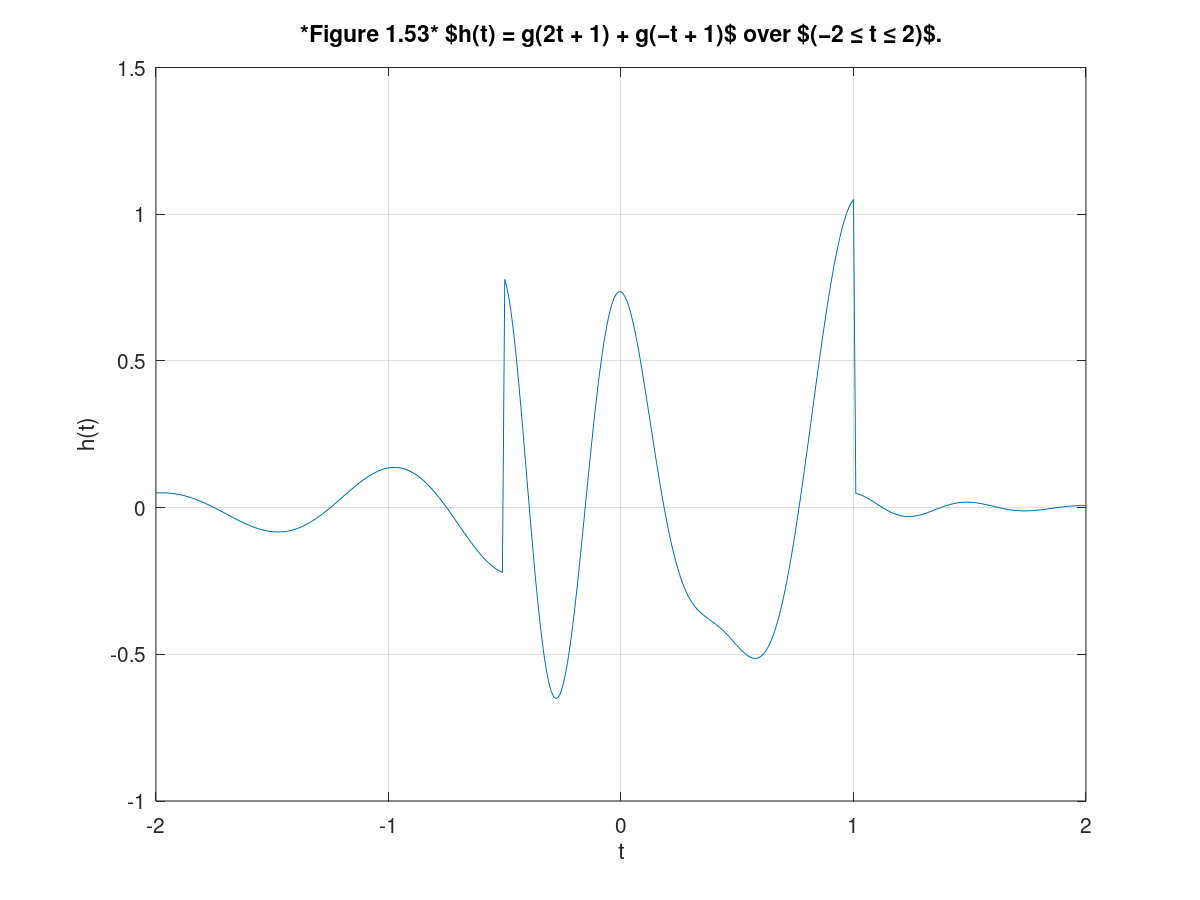
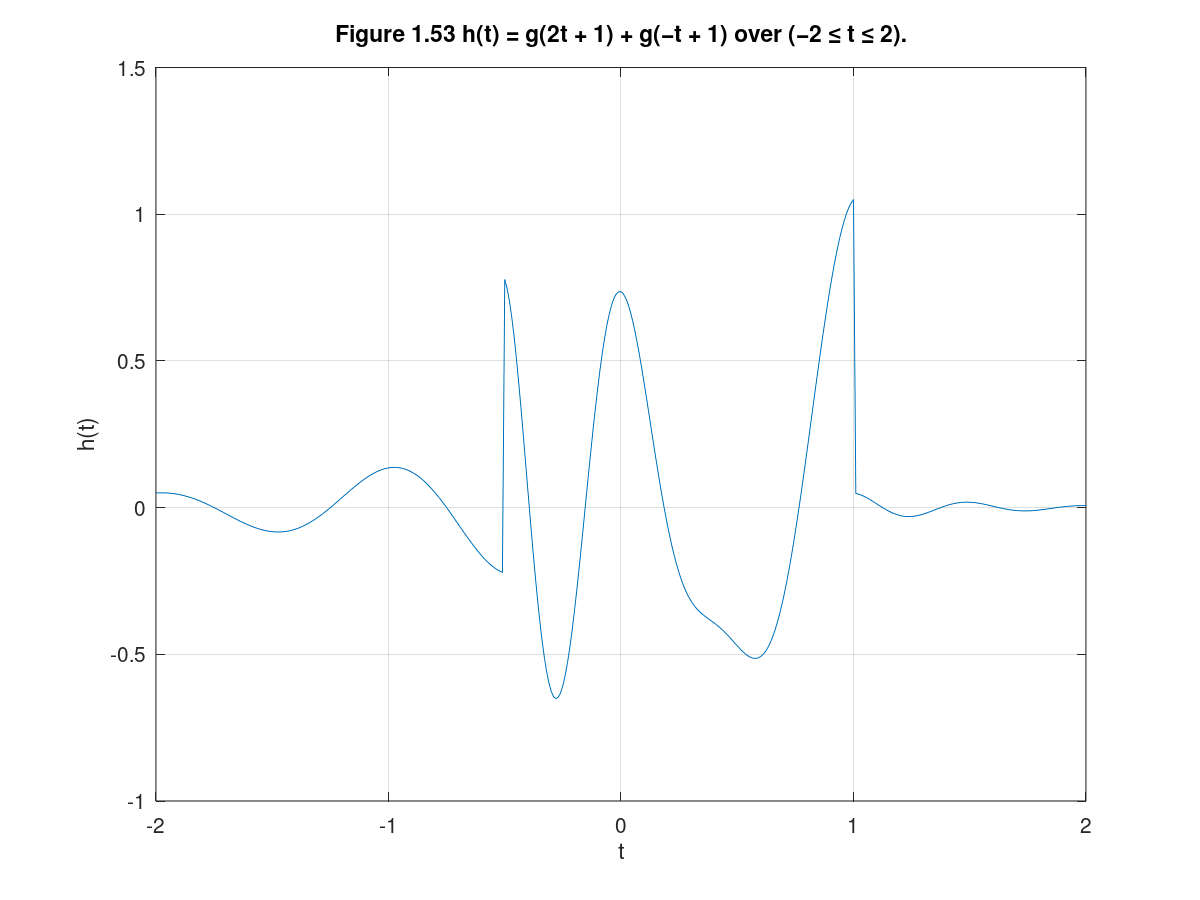
1.11-3 ver 3

Changed region(s): [[0.2467, 0.0311, 0.8017, 0.0622]]

diff --git a/prueba.m b/prueba.m
@@ -74,7 +74,6 @@ plot(t, f(t));
 xlabel('t');
 ylabel('f(t)');
 grid;
-
 %%
 % *Figure 1.46* $f(t) = e^{-t}cos(2\pi t)$ for $t = (-2::2)$.
 
@@ -83,7 +82,6 @@ plot(t1, f(t1));
 xlabel('t');
 ylabel('f(t)');
 grid;
-
 %%
 % *Figure 1.47* $f(t) = e^{-t}cos(2\pi t)$ for $t = (-2:0.01:2)$.
 
@@ -128,9 +126,7 @@ plot(t, u(t));
 xlabel('t');
 ylabel('u(t)');
 axis([-2 2 -0.1 1.1]);
-
-%%
-% *Figure 1.48* $u(t)$ for $t = (-2:0.01:2)$.
+title('Figure 1.48 u(t) for t = (-2:0.01:2)');
 
 %%
 % The four-element vector argument of axis specifies x axis minimum, x axis maximum, y axis
@@ -146,7 +142,7 @@ plot(t, p(t));
 xlabel('t');
 ylabel('p(t) = u(t) - u(t-1)');
 axis([-1 2 -0.1 1.1]);
-title('*Figure 1.50* $p(t) = u(t) − u(t − 1) over (−1 ≤ t ≤ 2)$.');
+title('Figure 1.50 p(t) = u(t) − u(t − 1) over (−1 ≤ t ≤ 2).');
 %%
 % Since anonymous functions can be constructed using other anonymous functions, we could
 % have used our previously defined unit step anonymous function to define p(t) as p = @(t)
@@ -182,7 +178,7 @@ g = @(t) f(t).*u(t);
 
 t = (-2:0.01:2);
 plot(t,g(2*t+1)); xlabel('t'); ylabel('g(2t+1)'); grid;
-title('*Figure 1.51* $g(2t + 1) over (−2 ≤ t ≤ 2)$.');
+title('Figure 1.51 g(2t + 1) over (−2 ≤ t ≤ 2).');
 
 
 %%
@@ -195,7 +191,7 @@ title('*Figure 1.51* $g(2t + 1) over (−2 ≤ t ≤ 2)$.');
 % reflected. Adding the condition b > 0 shifts the final waveform to the right.
 
 plot(t,g(-t+1)); xlabel('t'); ylabel('g(-t+1)'); grid;
-title('*Figure 1.52* $g(−t + 1)$ over $(−2 ≤ t ≤ 2)$');
+title('Figure 1.52 g(−t + 1) over (−2 ≤ t ≤ 2)');
 
 %%
 % Figure 1.52 confirms both the reflection and the right shift.
@@ -204,7 +200,7 @@ title('*Figure 1.52* $g(−t + 1)$ over $(−2 ≤ t ≤ 2)$');
 % accurate hand sketch would be quite difficult. With MATLAB, the work is much less burdensome.
 
 plot(t,g(2*t+1)+g(-t+1)); xlabel('t'); ylabel('h(t)'); grid;
-title('*Figure 1.53* $h(t) = g(2t + 1) + g(−t + 1)$ over $(−2 ≤ t ≤ 2)$.');
+title('Figure 1.53 h(t) = g(2t + 1) + g(−t + 1) over (−2 ≤ t ≤ 2).');
 
 %% 2) Resolución del problema 1.2-2
 
